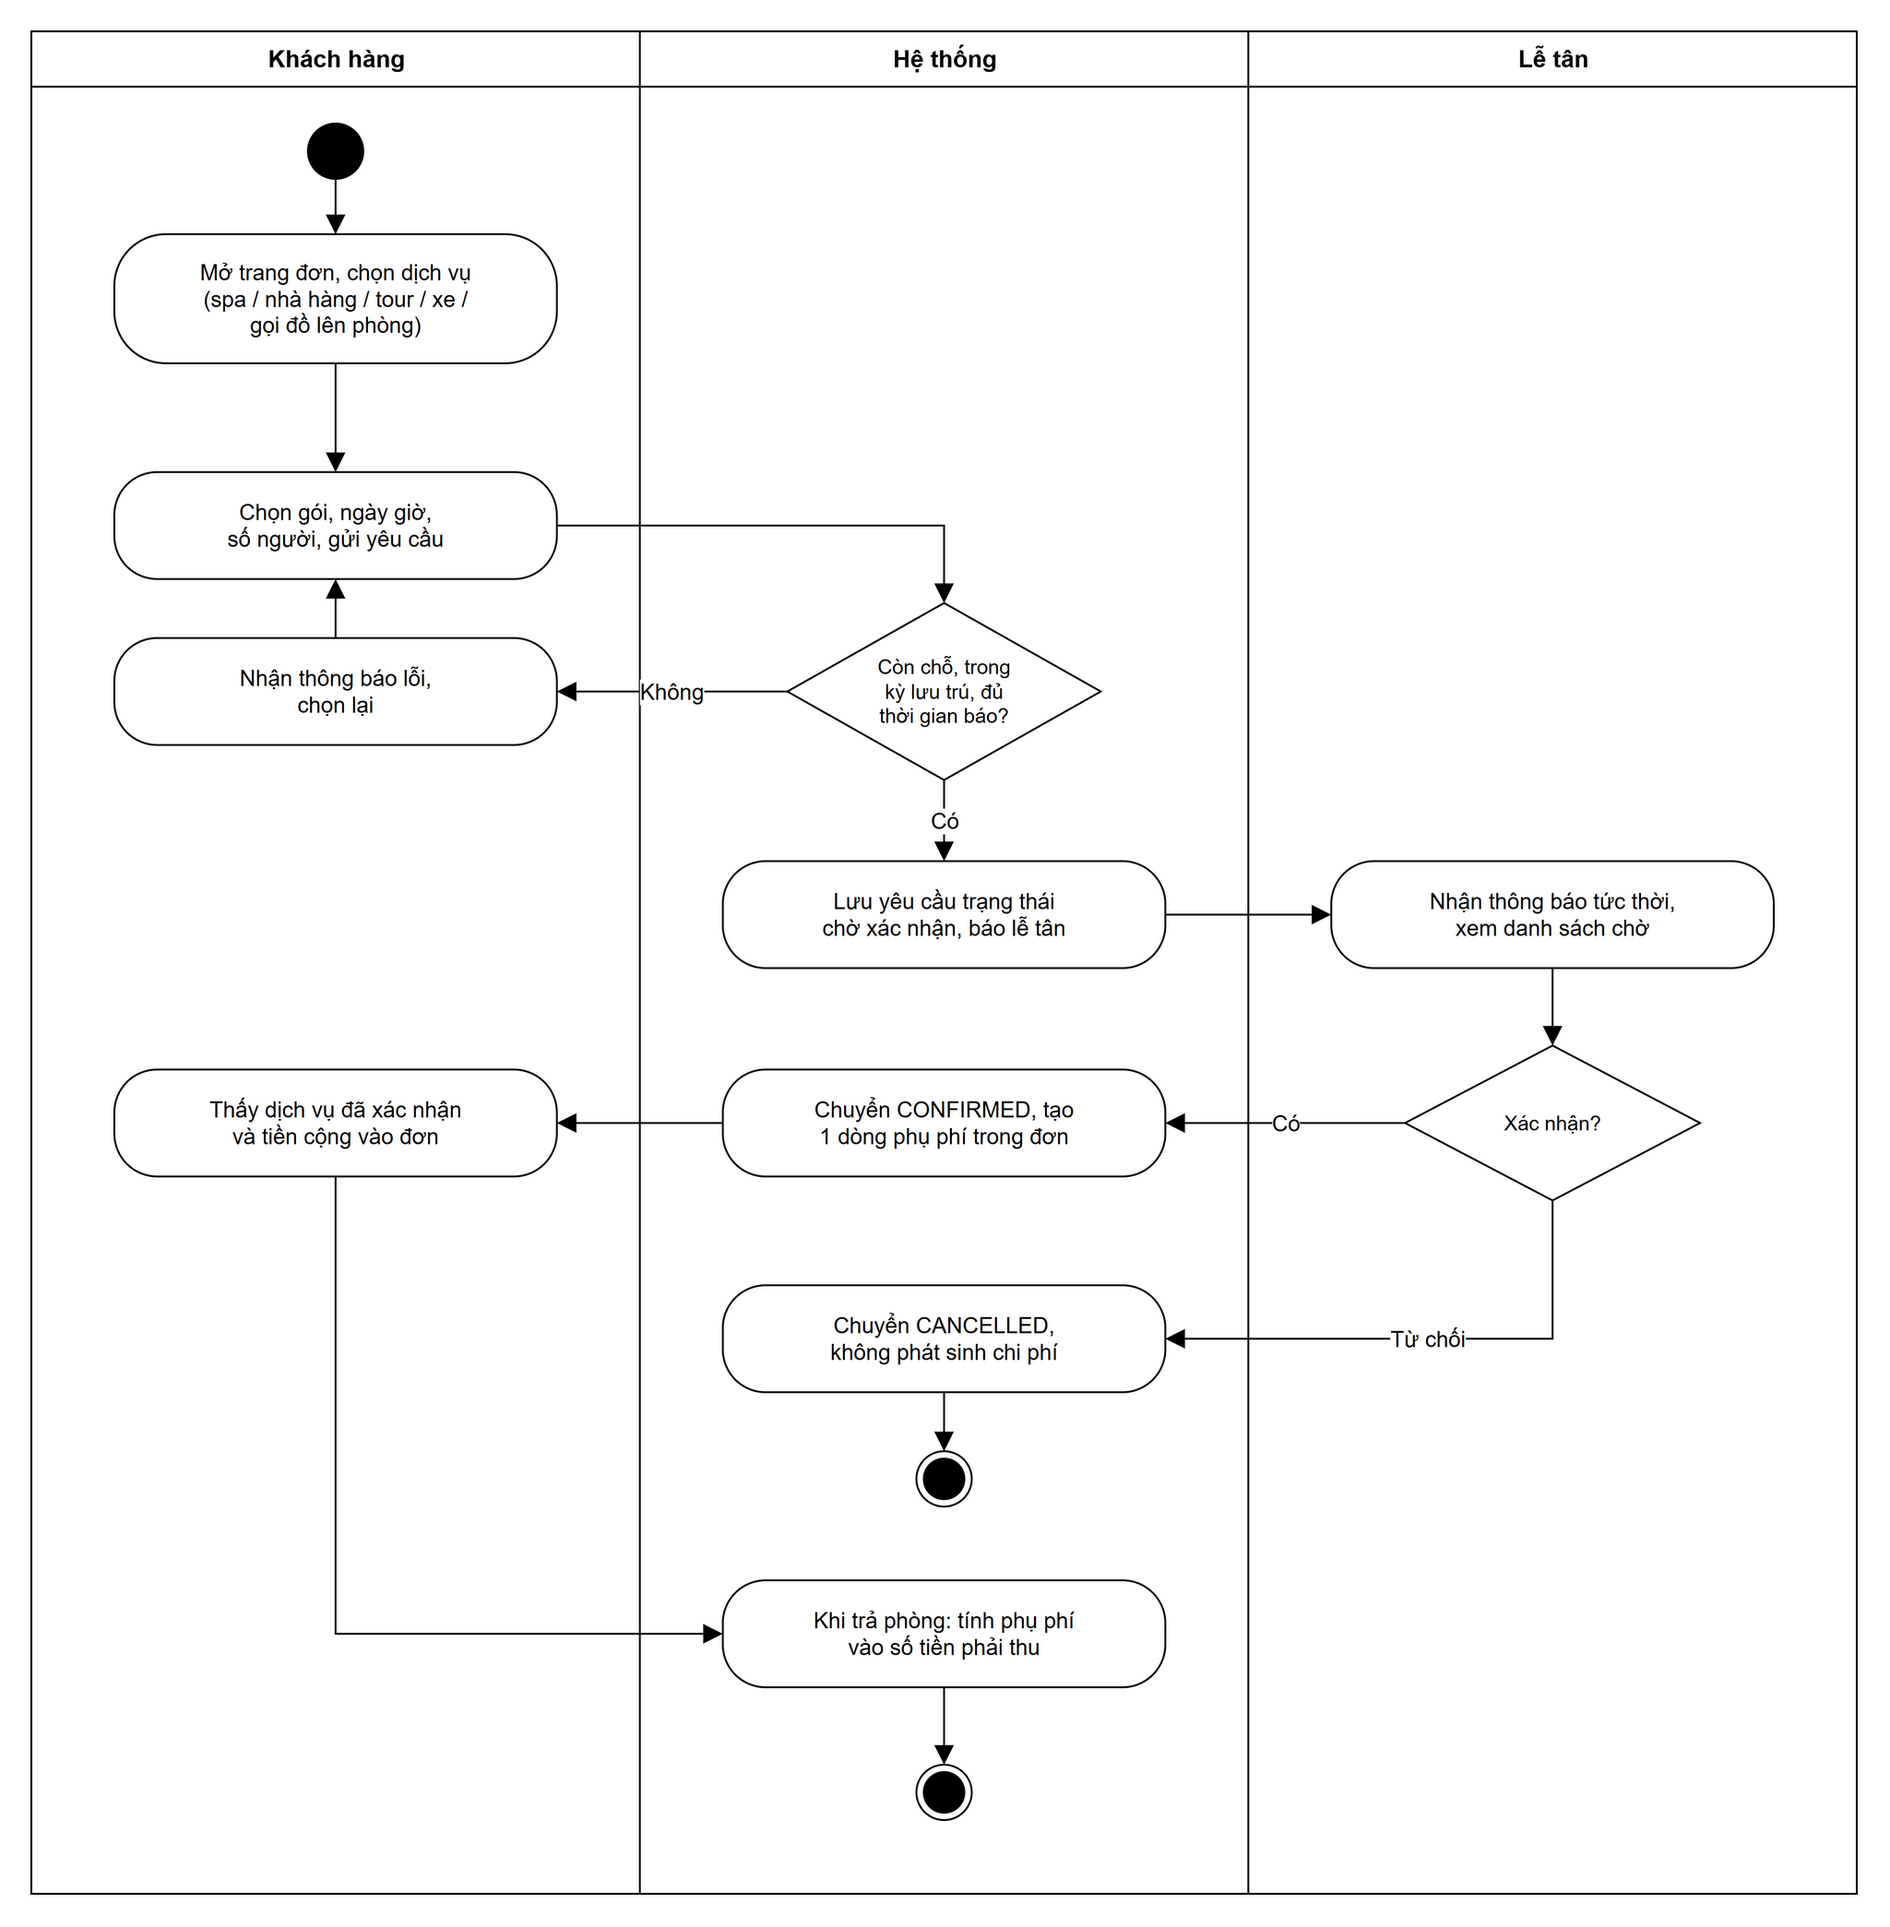
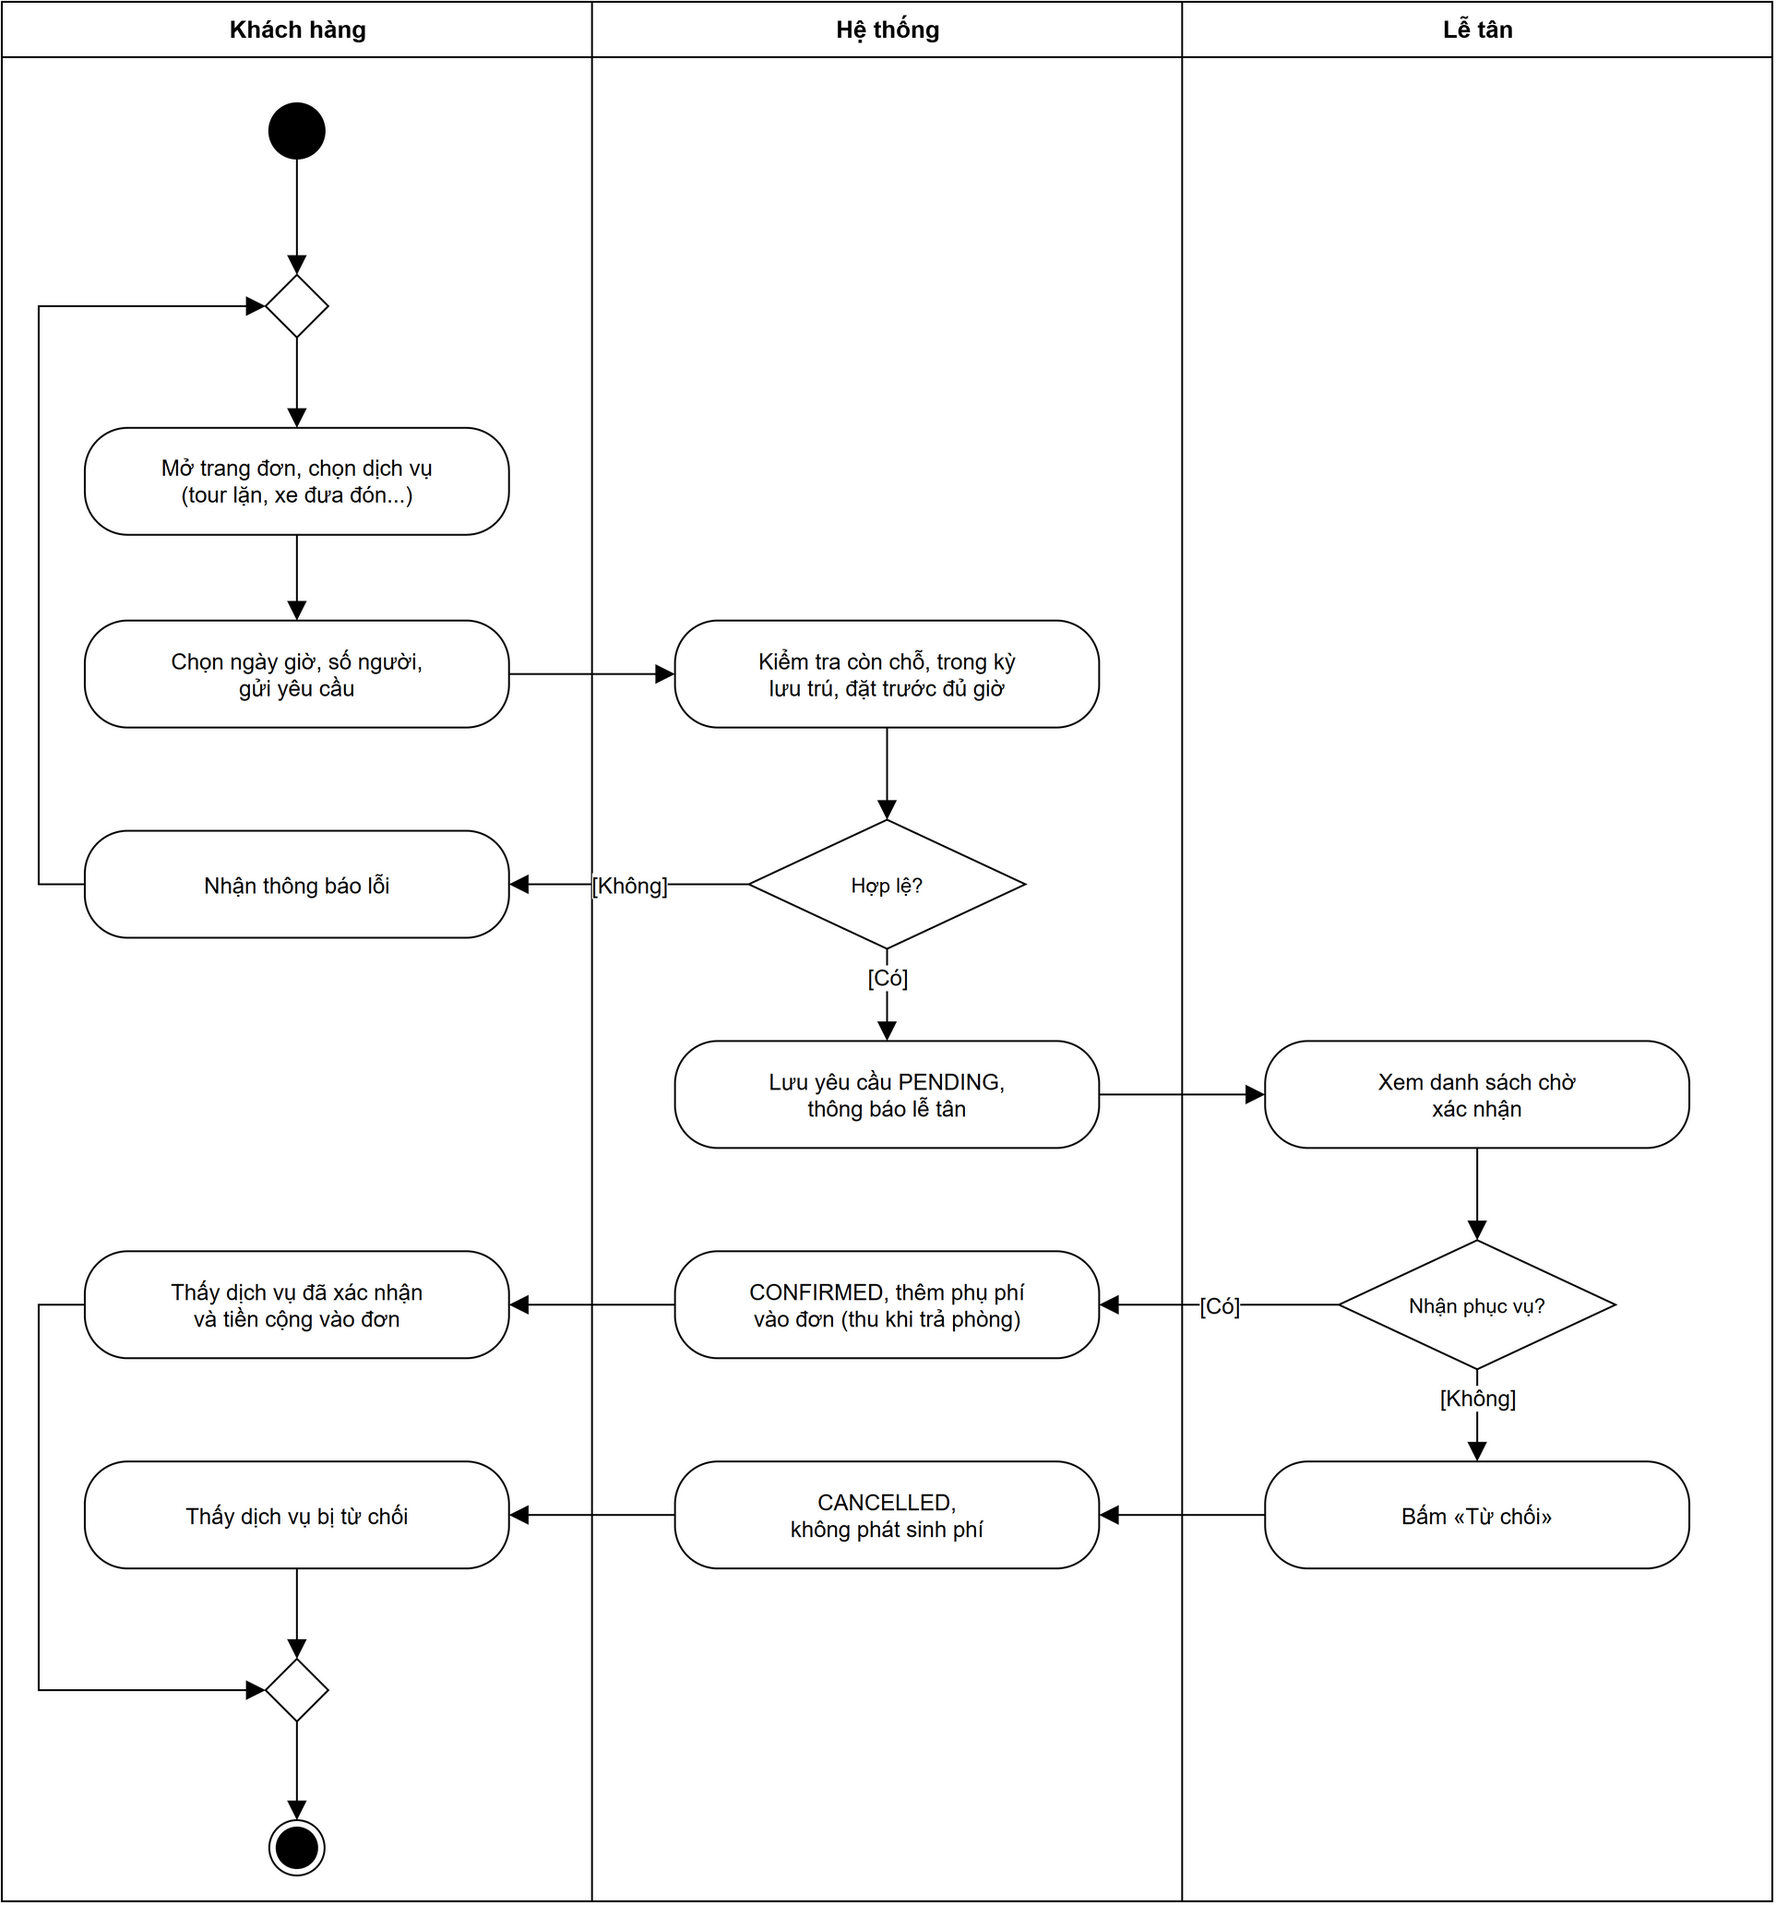
Ve lai 5 bieu do hoat dong (Hinh 2.8 - 2.12): dung nut merge, guard [..], khong duong cat, moi nhanh co ket thuc; sua lan / nhanh sai theo code (VNPay that bai, huy chua coc, hoan VNPay loi, loi AI); cap nhat TIEN-DO

diff --git a/TIEN-DO.md b/TIEN-DO.md
@@ -37,6 +37,7 @@
 ### Đợt 22 (30/10/2026) - Soát báo cáo Word, sửa chỗ lệch với code / sơ đồ mới
 | Commit | Chức năng |
 |---|---|
+| (xem `git log`) | Theo nhận xét «biểu đồ hoạt động loằng ngoằng và sai nhiều»: **vẽ lại 5 biểu đồ hoạt động** (Hình 2.8 - 2.12, `docs/thiet-ke/hd-*.drawio`, ảnh `docs/hinh/hd-*.png`) theo đúng code và ký hiệu UML: mọi chỗ nhập luồng dùng nút merge (trước đây nhiều mũi tên đâm thẳng vào một hành động = join ngầm), điều kiện ghi `[..]`, không còn đường cắt nhau, mọi nhánh có nút kết thúc. Sửa sai nghiệp vụ: đặt phòng - hộp «Từ chối kết quả» nằm nhầm làn VNPay và cụt, «hết phòng» quay về bước nhập thông tin (nay quay về tìm phòng), thêm nhánh thanh toán thất bại → thanh toán lại / bỏ dở; hủy đơn - nhánh chưa cọc / tiền hoàn 0 đi vào «ghi thời điểm hoàn» (sai), nhánh «Đã cọc?» thiếu nhãn, email xác nhận hủy gửi ngay khi hủy, thêm VNPay hoàn lỗi → chuyển khoản tay; trả phòng - bỏ chỗ «Không» cắt «Chưa đạt»; đặt dịch vụ - bỏ hộp «Khi trả phòng» nối chéo, nhánh từ chối báo lại khách; lãi lỗ AI - hộp báo lỗi nằm nhầm làn Claude AI và cụt. Script sinh `docs/so-do-rut-gon-dang-lam/hd_gen.py`. **Chưa thay ảnh trong Word** (Word đang mở file báo cáo) |
 | (xem `git log`) | Theo yêu cầu «tất cả bảng trong file word là trắng»: bỏ hết tô nền ô (`w:shd` màu `DCEBF5`) ở 24 bảng của báo cáo, chỉ còn nền trắng + viền đen (chủ dự án đã tự bỏ 9 ô trước đó, giữ nguyên); xuất lại PDF |
 | (xem `git log`) | Theo yêu cầu «khách hàng giờ phải đăng nhập mới đặt phòng được» → «kiểm tra trong word đi». Code đã đúng từ đợt 17 (`/customer/bookings/**` cần vai trò CUSTOMER). Báo cáo còn sót: **Hình 2.8** (hoạt động đặt phòng, `hd-dat-phong-dat-coc.drawio`) thêm nhánh «Đã đăng nhập?» → chuyển trang đăng nhập → đăng nhập (đăng ký nếu chưa có tài khoản) → mở lại trang đặt phòng điền sẵn thông tin; **Hình 2.20** (tuần tự `sq02-dat-phong.drawio`) thêm khung `opt [Chưa đăng nhập]` bước 2 - 3, đánh lại số bước; câu mô tả 2.5.1, 2.8.2 thêm ý bắt buộc đăng nhập; **Bảng 1.3** tách quyền khách vãng lai / khách hàng, **Bảng 1.6** UC1 tác nhân chỉ còn khách hàng. **Mục 3.5**: 10 ảnh cũ chụp khi chưa đăng nhập (liên hệ, xác nhận đặt phòng còn dòng «Không cần đăng nhập», chatbot, mua thẻ quà tặng) chụp lại khi đăng nhập tài khoản `khoa.demo@example.com` (giữ chỉnh tay của chủ dự án: email sai ở Hình 3.59 là «nghq@com», ảnh chụp theo đúng email này) (thêm thẳng vào bản sao CSDL `beach_hotel_shots`, mật khẩu chép từ tài khoản demo khác, đã xóa CSDL sau khi chụp; ảnh `docs/hinh/ket-qua/k03*, k04, k11*, k12, k13, k14*, k15`), chuyển từ 3.5.1 sang 3.5.2: 3.5.1 còn 19 hình (xem phòng, tìm, so sánh, đăng ký, đăng nhập), 3.5.2 bắt đầu bằng mã giảm giá / thông tin người nhận sai rồi đặt phòng, cuối mục là liên hệ, chatbot, thẻ quà tặng; đánh lại Hình 3.1 - 3.63; bước «Đặt phòng ngay» (Hình 3.9) ghi khách vãng lai được chuyển tới trang đăng nhập. Script `shot2.py` (CDP), `patch2.py` (python-docx dời khối hình + đánh số) trong thư mục tạm của phiên |
 | (xem `git log`) | Theo yêu cầu «kiểm tra word xem đã đúng hết chưa» → «sửa hết đi, giữ mô tả OTP». Soát `docs/BaoCao-DoAn.docx` (đánh số hình / bảng, danh mục, mục lục, tham chiếu đều đúng) và sửa 6 chỗ lệch: **Hình 2.2** thay bằng ảnh xuất từ `uc0-tong-quat.drawio` chủ dự án sửa 28/10 (bỏ tác nhân VNPay), bỏ câu «VNPay là hệ thống ngoài...» ở mục 2.2; **phân trang** 20 → 10 (Hình 2.71 quản lý đặt phòng, Hình 2.78 lịch phòng); **Phụ lục 1**: OTP cổng quản trị đang tắt mặc định (`ADMIN_OTP=false`), bật lại bằng `ADMIN_OTP=true` (mô tả OTP ở chương 1 - 3 giữ nguyên vì tính năng vẫn có); **màn hình Hôm nay mới**: phác thảo Hình 2.68 vẽ lại (`gd28-hom-nay.drawio`, giữ header + menu, vùng nội dung theo `admin/today.html` mới, mô tả (1) - (6) viết lại), ảnh Hình 3.68 chụp lại (`docs/hinh/ket-qua/l01-hom-nay.png`, Chrome headless + CDP trên bản sao CSDL `beach_hotel_shots` dời ngày đơn +11 ngày để «hôm nay» giống ngày dữ liệu demo, đã xóa sau khi chụp), các bước (1) - (3) viết lại; **số liệu**: 1.926 ca kiểm thử (mục 3.4, 4.1, Bảng 3.2), dòng mã 31.945 / 18.976, 52 tệp migration, nguồn bảng ngày 30/10/2026; mục 4.1 «177 thao tác» → 178. Báo cáo 325 trang, cập nhật mục lục / danh mục, xuất lại PDF. `ucn5` vẫn chưa commit (không thuộc báo cáo). draw.io Desktop 32.6.1 cài sẵn ở `%LOCALAPPDATA%\Programs\draw.io` xuất PNG được |
